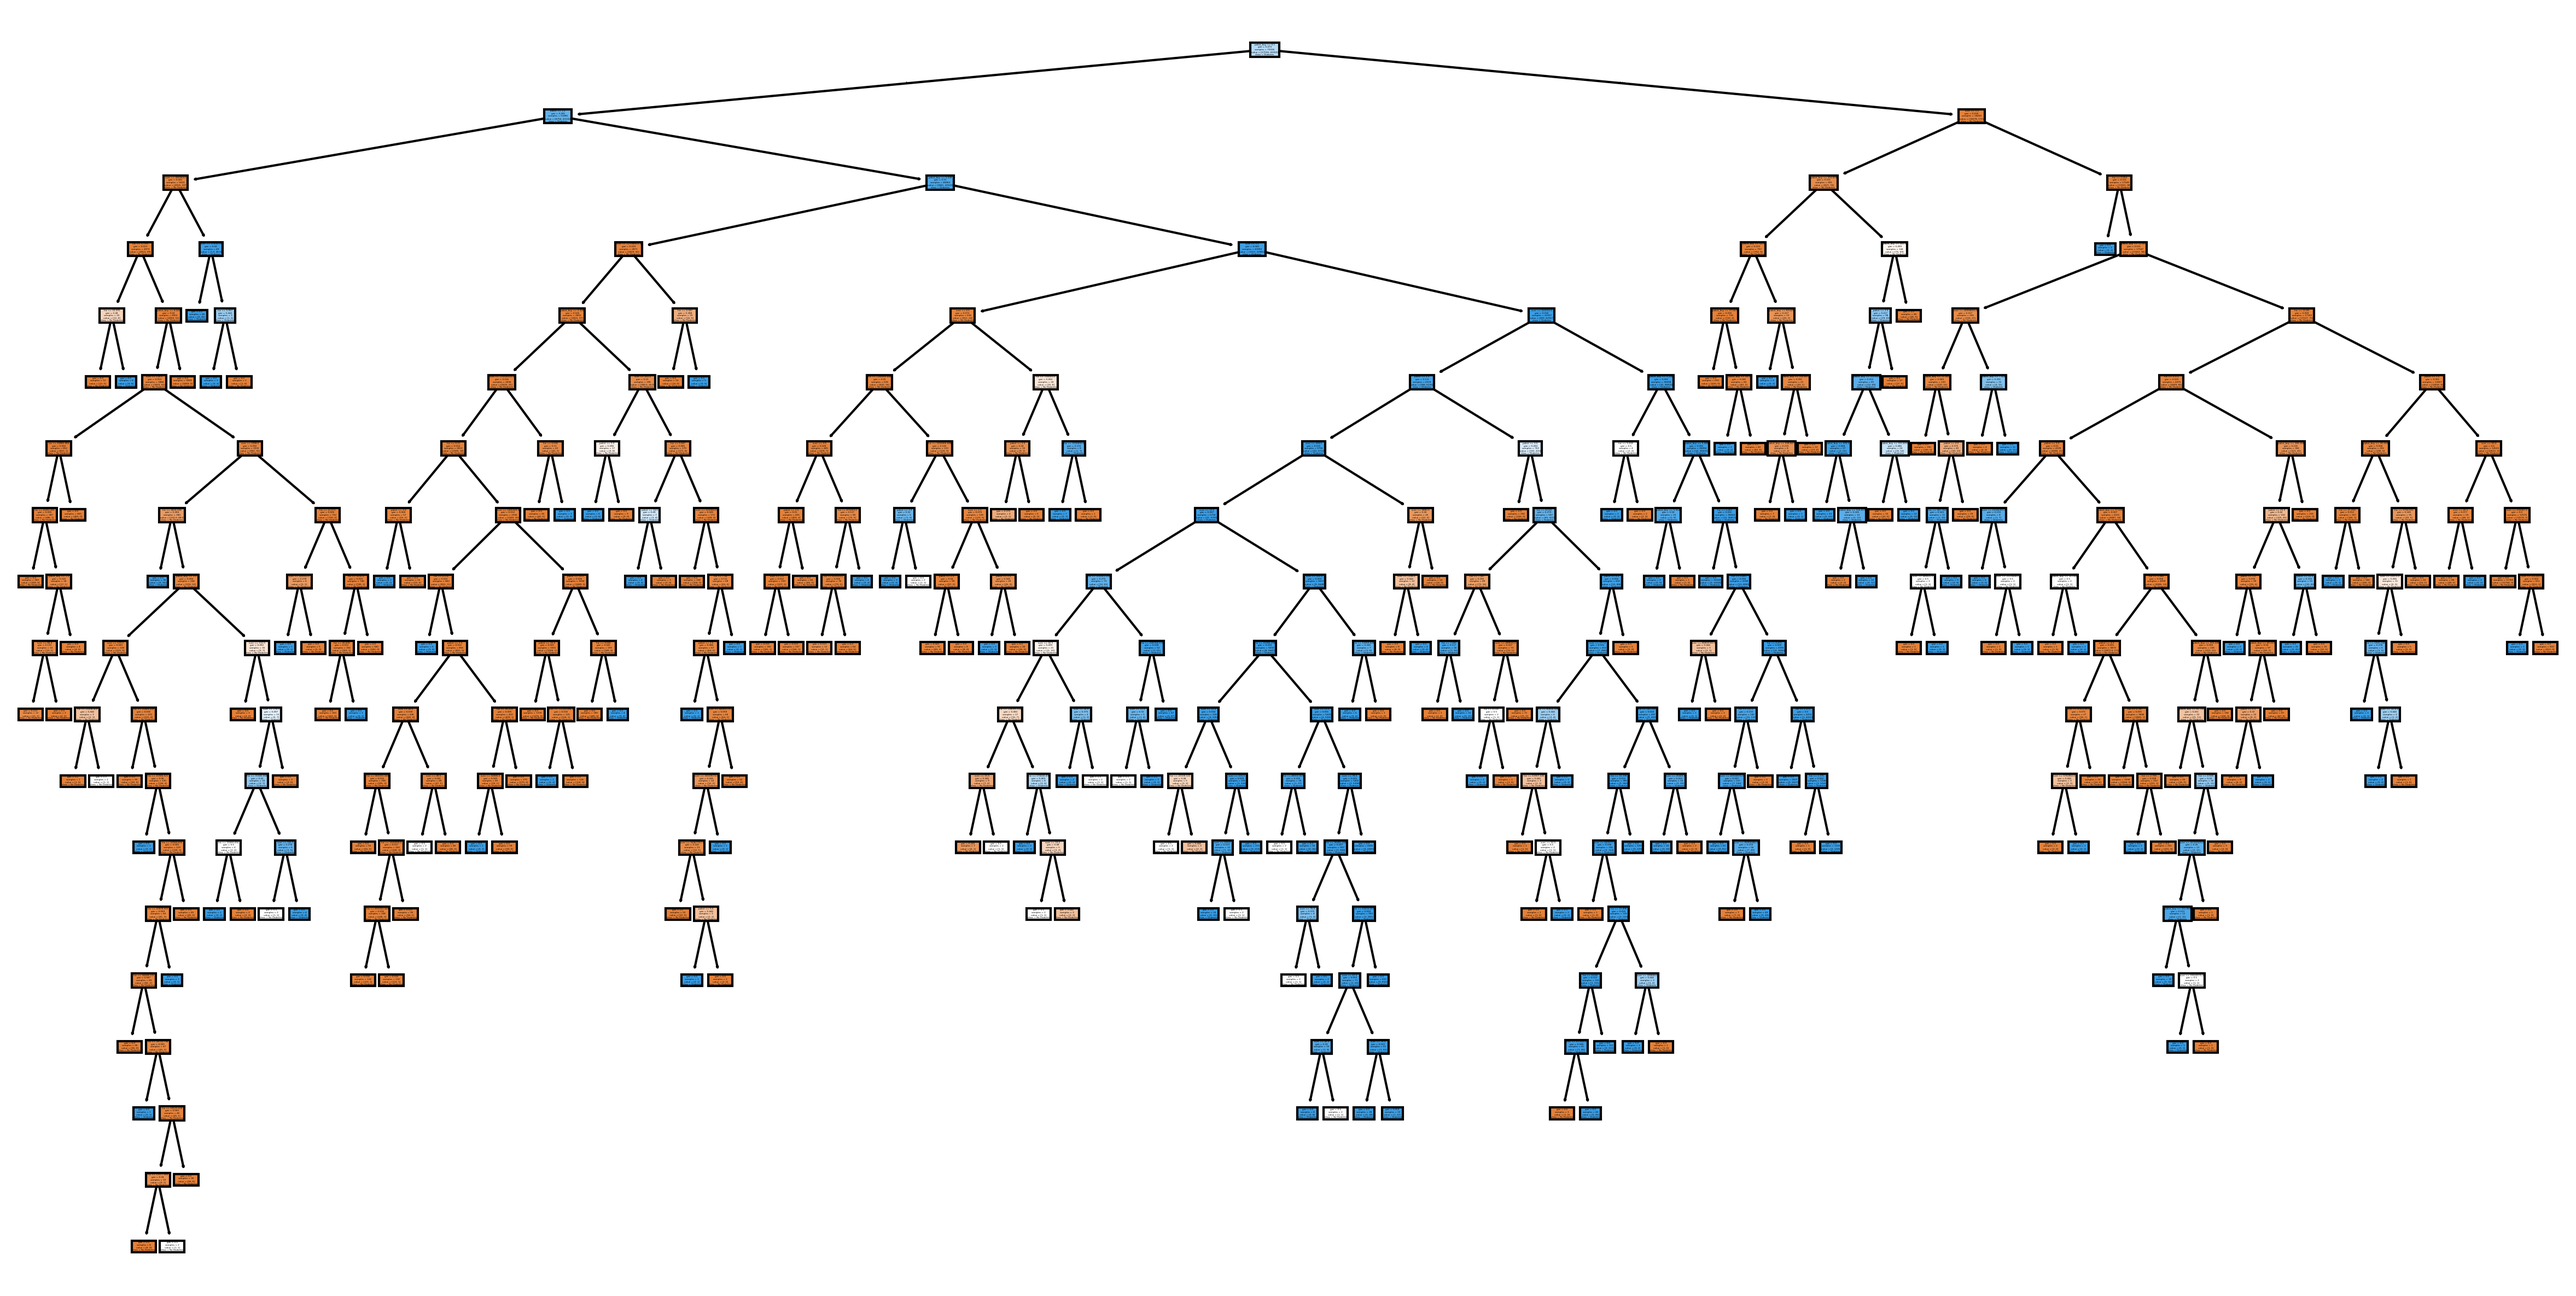
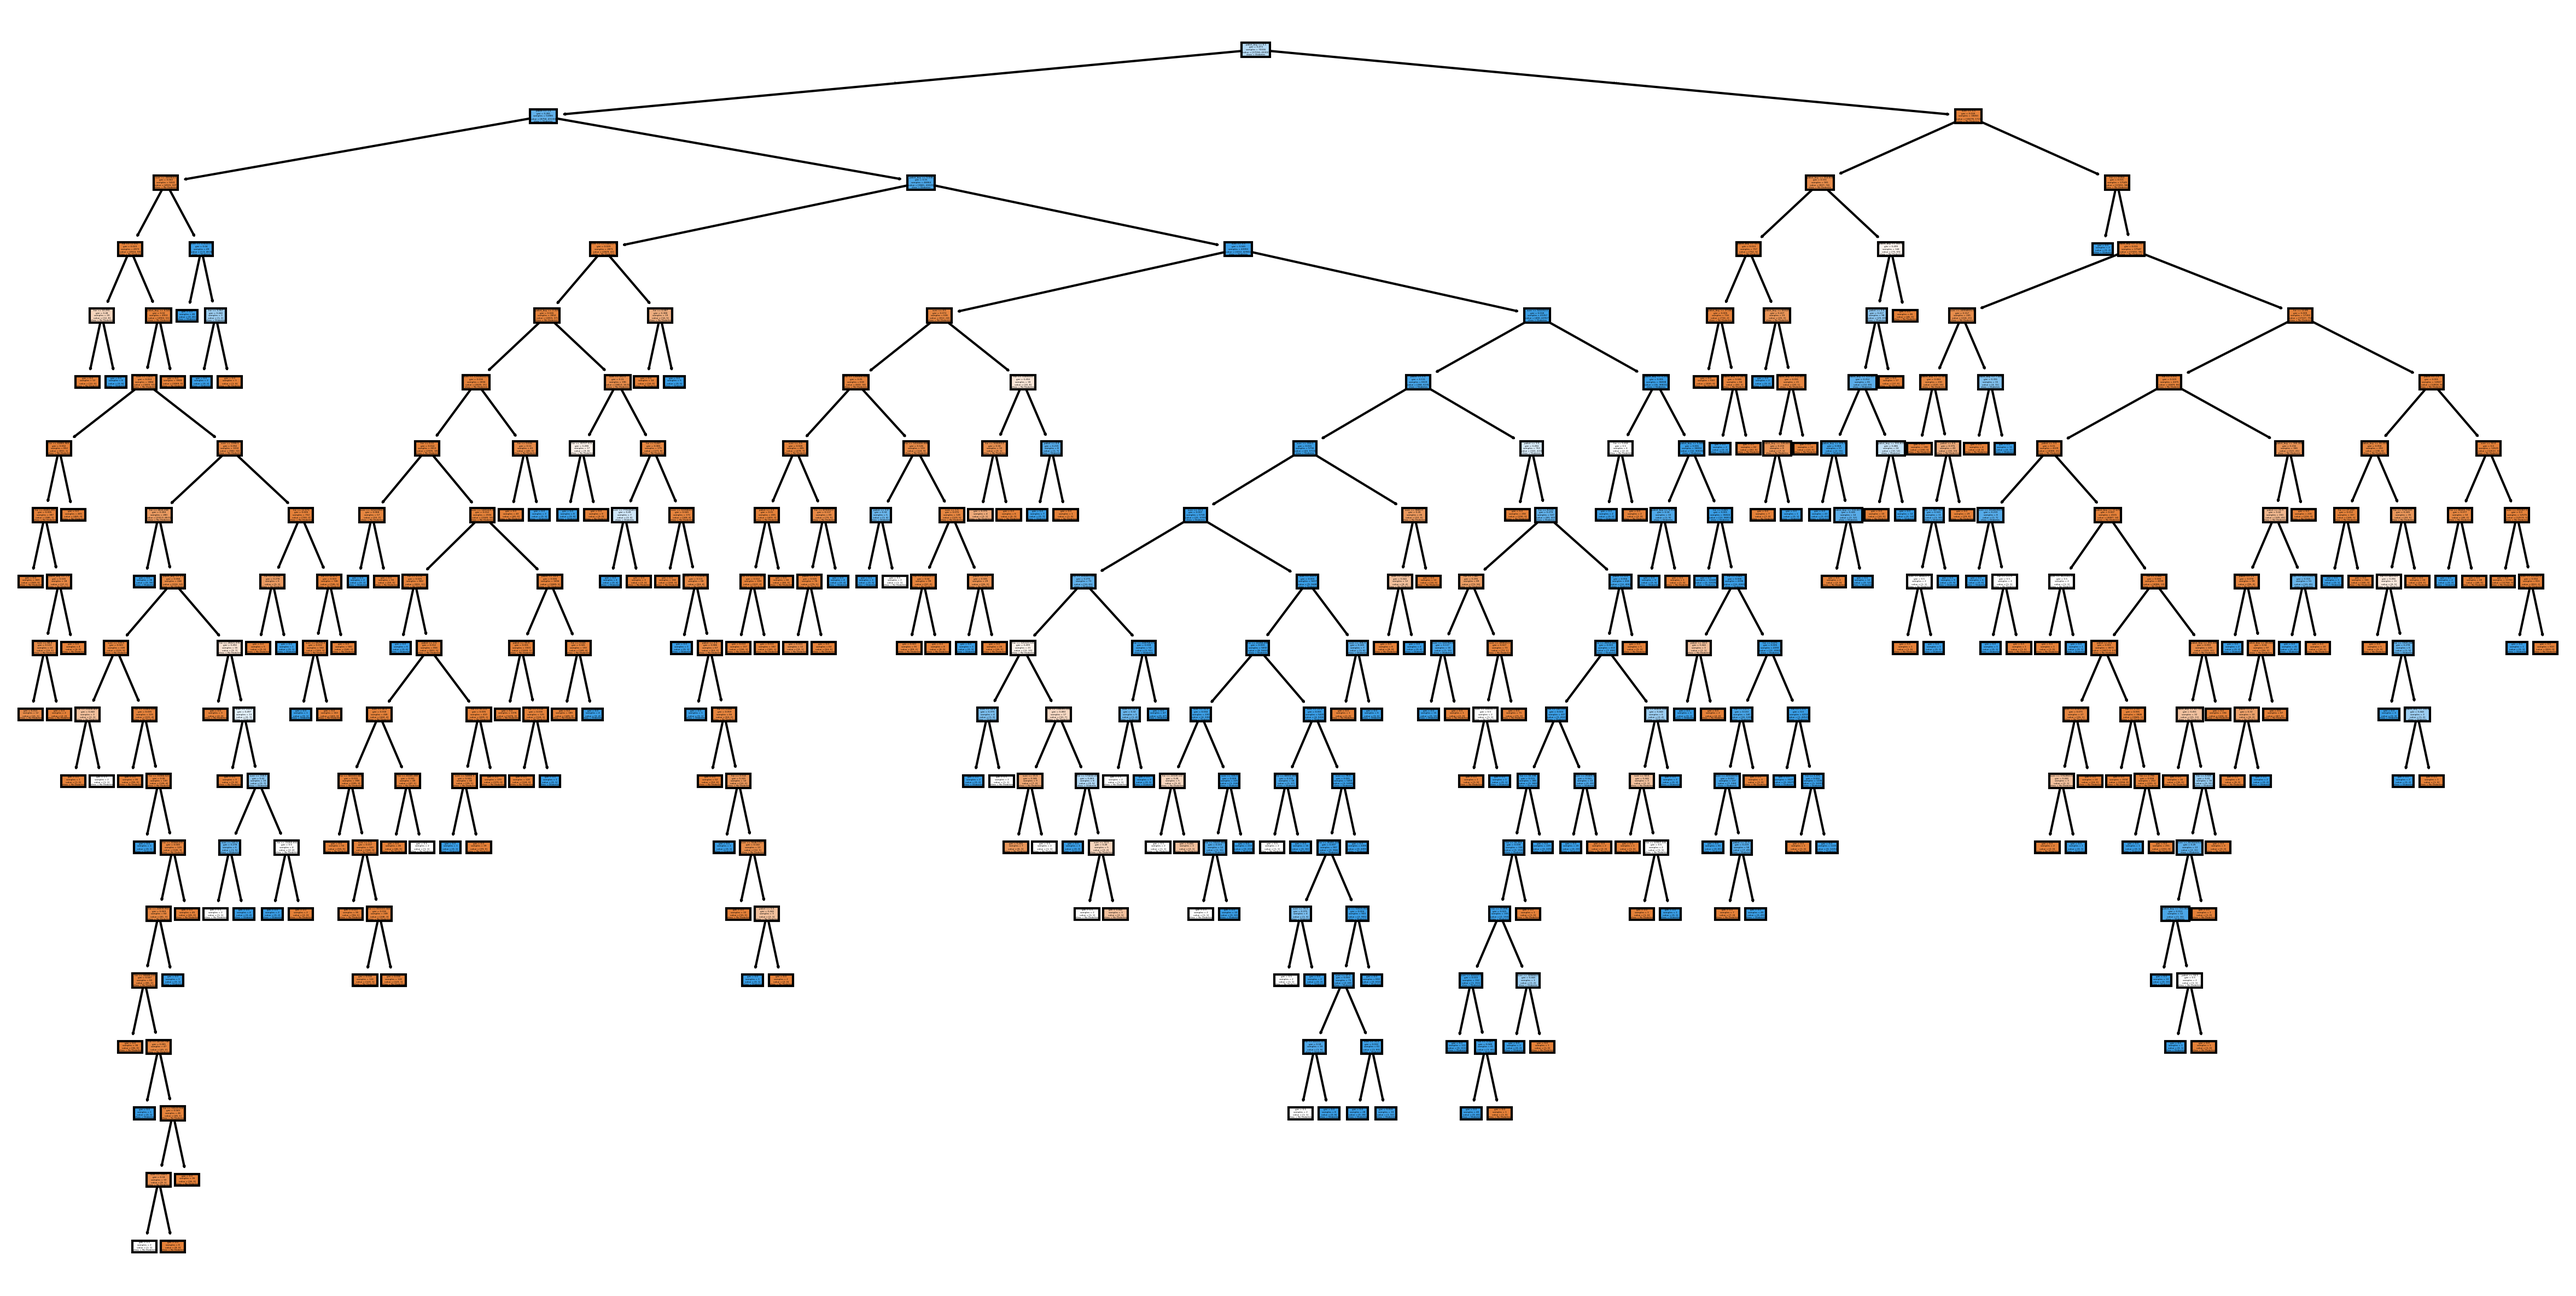
readme ve proje duzeni

diff --git a/ML/BirlesikProjeler/UdpTespit/main.py b/ML/BirlesikProjeler/UdpTespit/main.py
@@ -3,6 +3,8 @@ import asyncio as io
 import time
 import pandas as pd
 from sklearn.tree import DecisionTreeClassifier
+from sklearn.model_selection import train_test_split 
+from sklearn.metrics import accuracy_score
 from collections import defaultdict
 import os
 import json
@@ -23,6 +25,18 @@ df = pd.DataFrame(data)
 X = df[['paket', 'hiz', 'sure', 'paket_boy']]
 y = df['sonuc']
 
+X_train, X_test, y_train, y_test = train_test_split(X, y, test_size=0.2, random_state=42)
+
+model = DecisionTreeClassifier()
+model.fit(X_train, y_train) 
+
+
+y_pred = model.predict(X_test)
+accuracy = accuracy_score(y_test, y_pred)
+
+print("-" * 30)
+print(f"✅ Model Başarı Oranı: %{accuracy * 100:.2f}")
+print("-" * 30)
 model = DecisionTreeClassifier()
 model.fit(X, y)
 
@@ -90,6 +104,7 @@ plt.figure(figsize=(20,10))
 plot_tree(model, feature_names=X.columns, class_names=['No Diabetes', 'Diabetes'], filled=True)
 plt.savefig("diabetes_decision_tree.png", dpi=300, bbox_inches='tight')
 plt.show()
+
 if __name__ == "__main__":
     io.run(analiz())
 #===============================================

diff --git a/README.md b/README.md
@@ -117,5 +117,13 @@ pip install -r requirements.txt
 
 ## 🤖⛓ DDoS Saldırı önleyici botunun öğrenim ağacı:
 
+### 🚀 Model Performance
+
+| Metric             | Value                     |
+| :----------------- | :------------------------ |
+| **Accuracy Score** | **%99.76**                |
+| **Test Split**     | 80/20 (Random State: 42)  |
+| **Training Data**  | Pima & SYN-Training Mixed |
+
 ![Diabetes Decision Tree](ML/BirlesikProjeler/UdpTespit/diabetes_decision_tree.png)
 _"Kod yazmak sadece bir araçtır, asıl amaç bir şeyler inşa etmektir."_ 💻✨
